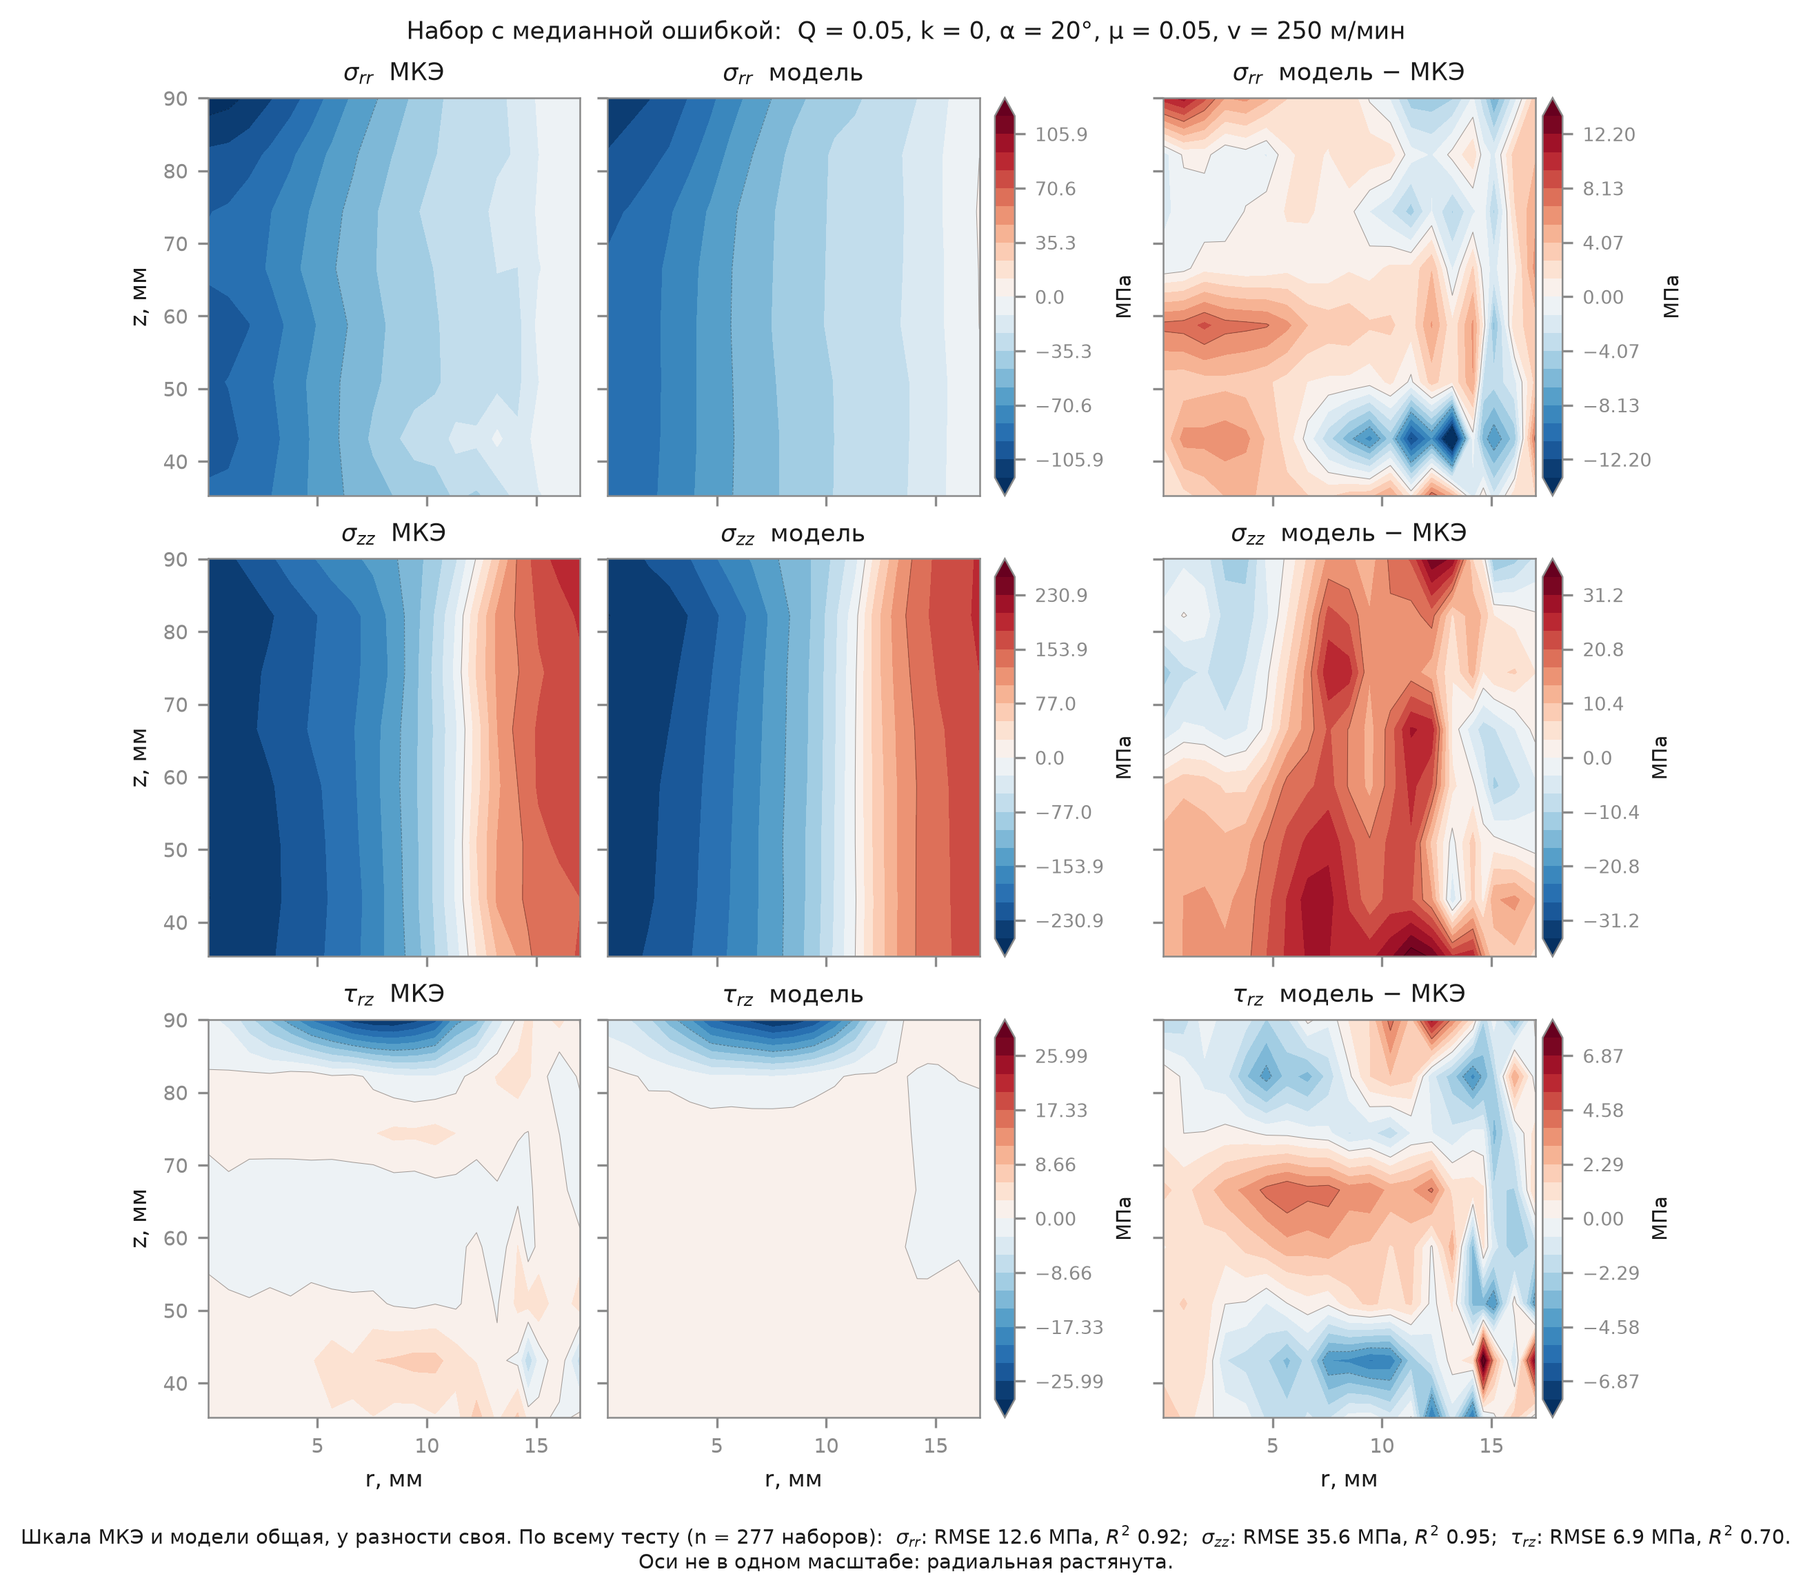
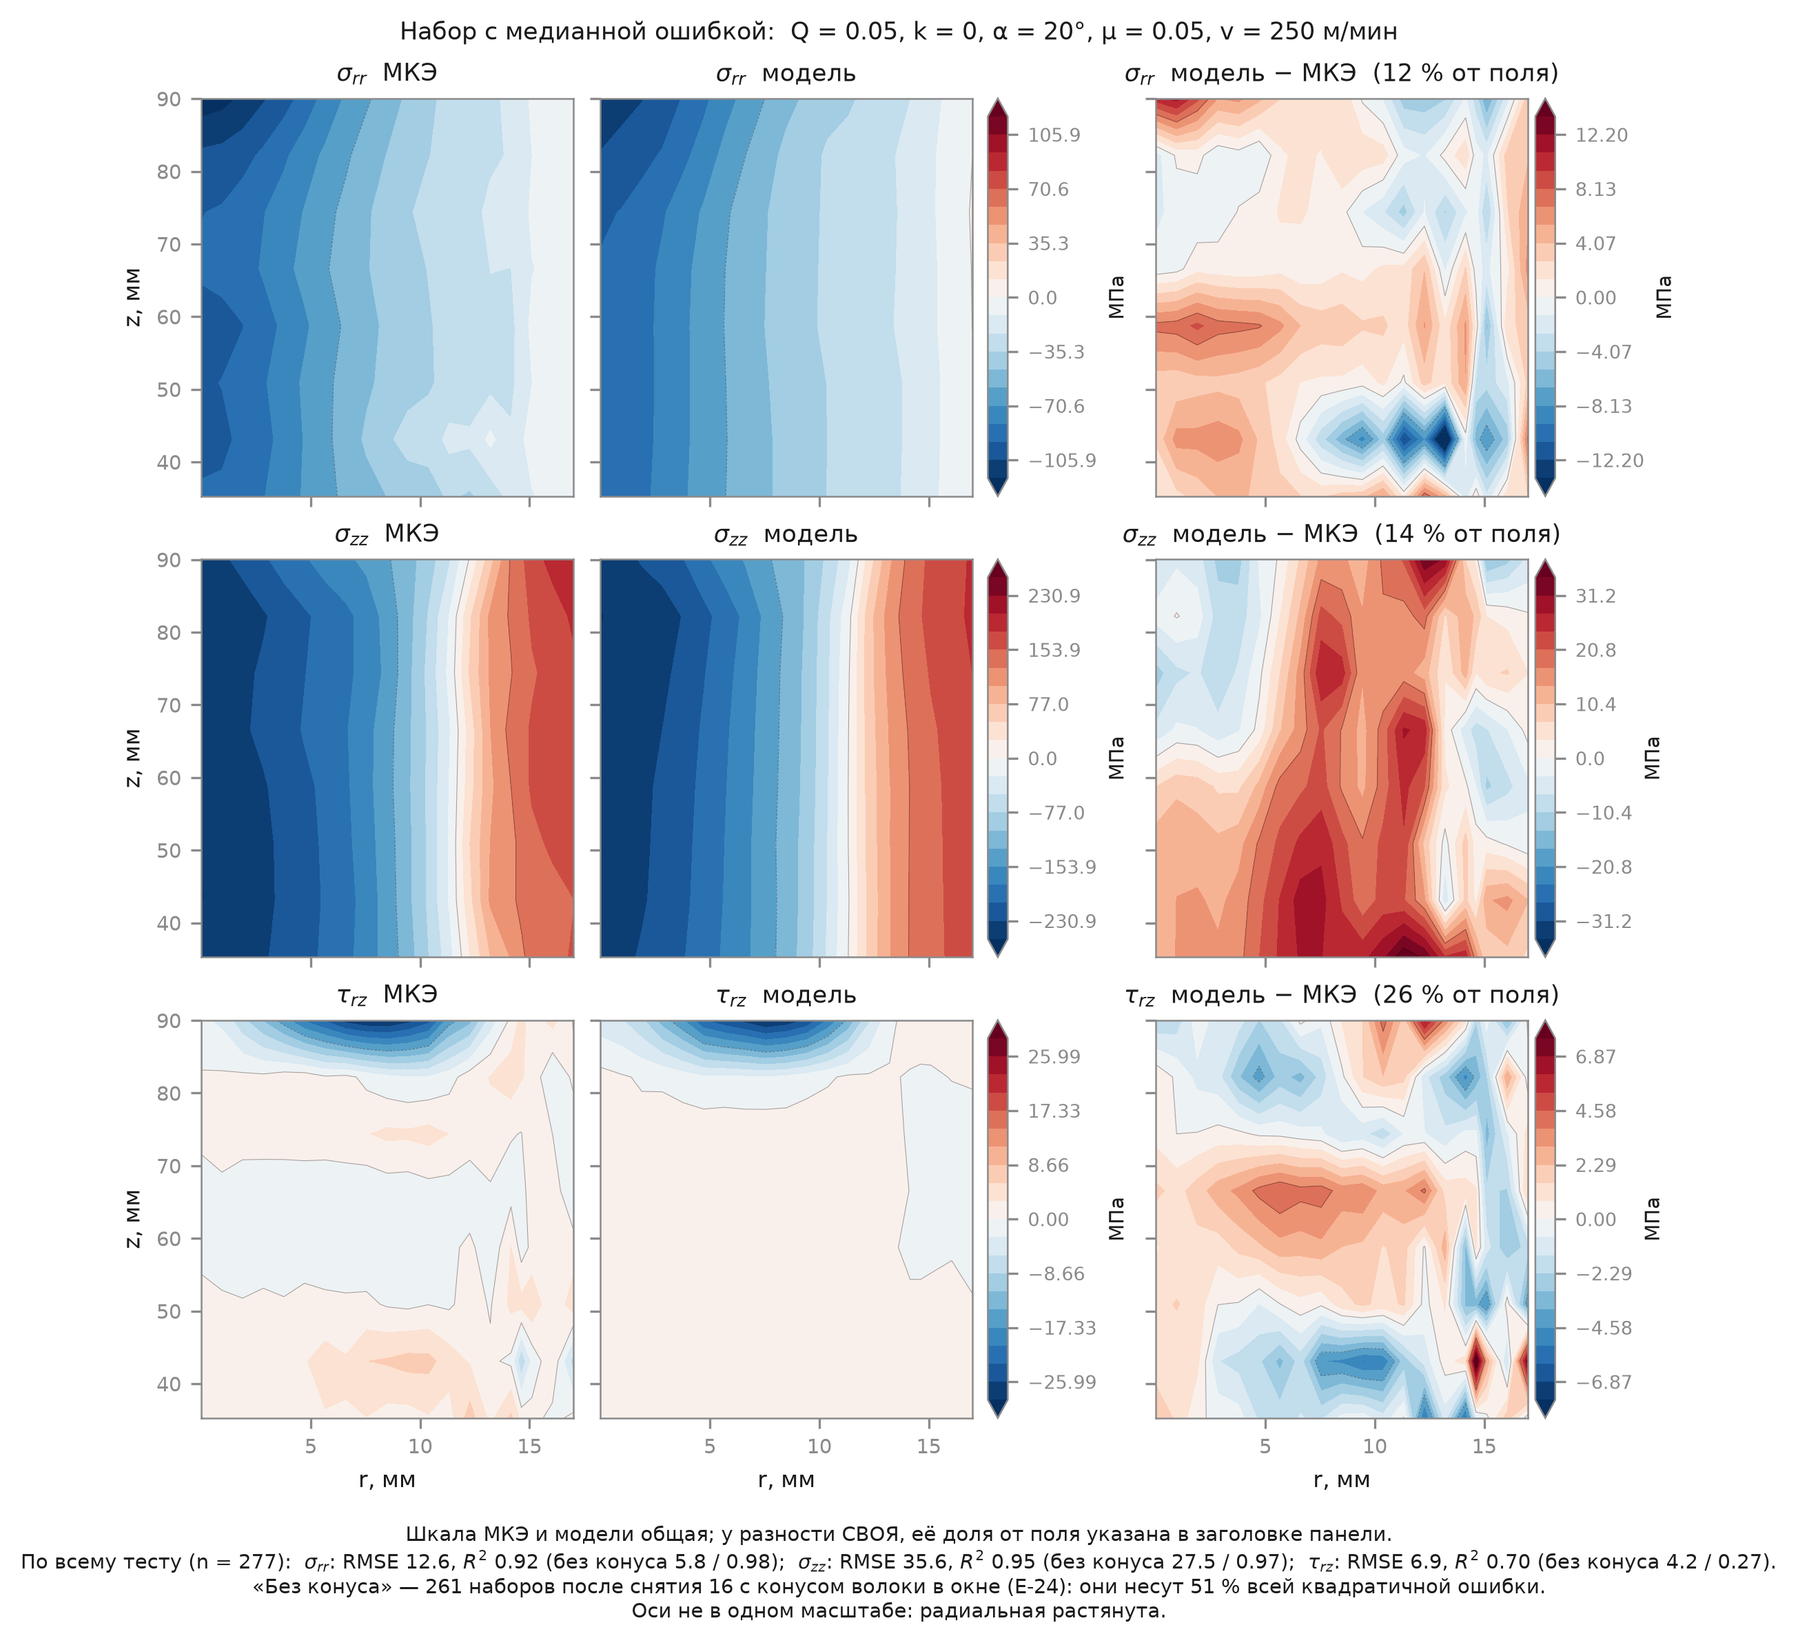
Панель разности вводила в заблуждение; отозвана цифра R2=0.70 по tau_rz
Панель разности масштабировалась по собственному размаху без указания, каков
он относительно поля. Ошибка в 11 % закрашивалась на полную насыщенность и
читалась как провал модели. Фактически для показанного набора:
  sigma_rr  поле ±122.0 МПа, разность ±13.6 МПа -> 11.1 %
  sigma_zz  поле ±256.5 МПа, разность ±34.7 МПа -> 13.5 %
  tau_rz    поле ± 28.8 МПа, разность ± 7.6 МПа -> 26.5 %
Доля вынесена в заголовок каждой панели разности.

Разбор структуры в разности показал, что она сосредоточена в наборах E-24:
16 из 277 тестовых (5.8 %) несут 51.3 % всей квадратичной ошибки, медиана
RMSE 40.6 против 8.6 МПа у остальных. После их снятия:
  sigma_rr  R2 0.924 -> 0.983
  sigma_tt  R2 0.935 -> 0.974
  sigma_zz  R2 0.947 -> 0.967
  tau_rz    R2 0.697 -> 0.269

ОТЗЫВ ЦИФРЫ. Ранее R2 = 0.70 по tau_rz подавался как результат. Он держался
на контактном сдвиге загрязнённых наборов, раздувавшем знаменатель дисперсии.
На чистых данных модель объясняет 27 % дисперсии tau_rz. Корректная
формулировка: введение z во вход делает tau_rz предсказуемым в принципе
(в одномерной постановке он теряет 79 % амплитуды при осреднении), но
качество по нему слабое и как результат подаваться не должно.

Метрики в подписи рисунка теперь печатаются в обоих вариантах.

Changed region(s): [[0.0, 0.0, 0.9935, 0.9952], [0.1552, 0.0, 0.4967, 0.1555], [0.7141, 0.0933, 0.7451, 0.1244]]

diff --git a/publication/experiments/contours.py b/publication/experiments/contours.py
@@ -124,12 +124,19 @@ def fig_model(npz: str, out: str, which: int = -1):
               f"диапазон {err.min():.2f}–{err.max():.2f})")
 
     rows = [(r"$\sigma_{rr}$", 0), (r"$\sigma_{zz}$", 2), (r"$\tau_{rz}$", 3)]
+    clean = d["clean_mask"] if "clean_mask" in d.files else None
     summ = []
     for tex, c in rows:
         t, q = y_true_all[..., c].ravel(), y_pred_all[..., c].ravel()
         r2 = 1.0 - ((q - t) ** 2).sum() / ((t - t.mean()) ** 2).sum()
-        summ.append(f"{tex}: RMSE {np.sqrt(((q - t) ** 2).mean()):.1f} МПа, "
-                    f"$R^2$ {r2:.2f}")
+        part = f"{tex}: RMSE {np.sqrt(((q - t) ** 2).mean()):.1f}, $R^2$ {r2:.2f}"
+        if clean is not None:
+            tc = y_true_all[clean][..., c].ravel()
+            qc = y_pred_all[clean][..., c].ravel()
+            r2c = 1.0 - ((qc - tc) ** 2).sum() / ((tc - tc.mean()) ** 2).sum()
+            part += (f" (без конуса {np.sqrt(((qc - tc) ** 2).mean()):.1f} / "
+                     f"{r2c:.2f})")
+        summ.append(part)
 
     yt, yp = y_true_all[which], y_pred_all[which]
     R = d["r_phys"][which] * 1e3
@@ -143,9 +150,13 @@ def fig_model(npz: str, out: str, which: int = -1):
         lim = _sym(np.concatenate([t.ravel(), q.ravel()]))
         dlim = _sym((q - t).ravel())
         cf_pair = None
+        # панель разности масштабируется по СЕБЕ, иначе структура не видна;
+        # поэтому её долю от поля пишем прямо в заголовок — иначе ошибка в
+        # 11 % закрашивается на полную насыщенность и читается как провал
+        diff_ttl = f"модель − МКЭ  ({100 * dlim / lim:.0f} % от поля)"
         for j, (v, ttl, L) in enumerate(((t, "МКЭ", lim),
                                          (q, "модель", lim),
-                                         (q - t, "модель − МКЭ", dlim))):
+                                         (q - t, diff_ttl, dlim))):
             ax = axes[i, j]
             lev = np.linspace(-L, L, 21)
             cf = ax.contourf(R, Z, v, levels=lev, cmap=DIVERGING, extend="both")
@@ -173,11 +184,15 @@ def fig_model(npz: str, out: str, which: int = -1):
     fig.suptitle(f"Набор с медианной ошибкой:  Q = {proc[0]:g}, k = {proc[1]:g}, "
                  f"α = {proc[2]:g}°, μ = {proc[3]:g}, v = {proc[4]:g} м/мин",
                  fontsize=8.5)
-    fig.text(0.5, -0.015,
-             "Шкала МКЭ и модели общая, у разности своя. По всему тесту "
-             f"(n = {len(y_true_all)} наборов):  " + ";  ".join(summ) + ".\n"
-             "Оси не в одном масштабе: радиальная растянута.",
-             ha="center", va="top", fontsize=7, color=INK)
+    note = ("Шкала МКЭ и модели общая; у разности СВОЯ, её доля от поля "
+            "указана в заголовке панели.\n"
+            f"По всему тесту (n = {len(y_true_all)}):  " + ";  ".join(summ) + ".")
+    if clean is not None:
+        note += (f"\n«Без конуса» — {int(clean.sum())} наборов после снятия "
+                 f"{int((~clean).sum())} с конусом волоки в окне (E-24): они "
+                 "несут 51 % всей квадратичной ошибки.")
+    note += "\nОси не в одном масштабе: радиальная растянута."
+    fig.text(0.5, -0.015, note, ha="center", va="top", fontsize=7, color=INK)
     fig.savefig(out)
     plt.close(fig)
     return out

diff --git a/publication/QA_DATA_AND_Z.md b/publication/QA_DATA_AND_Z.md
@@ -216,24 +216,43 @@ y = np.stack([s_rr(11), s_tt(13), s_zz(12), s_rz(14)])
 форма обоих уравнений), обучена на 1571 наборе, тест 277 наборов, случайный
 сплит. Показан набор с **медианной** ошибкой, а не лучший.
 
-Качество по всему тесту:
+Качество по тесту. Приведено дважды: по всем 277 наборам и по 261 после снятия
+16 наборов с конусом волоки внутри окна (E-24) — эти 16, при доле 5.8 % в тесте,
+несут **51.3 %** всей квадратичной ошибки.
 
-| компонента | RMSE, МПа | ст. отклонение данных, МПа | R² (глобальная нормировка) | sd(предсказ.)/sd(данных) |
+| компонента | RMSE, МПа | R² | RMSE без конуса | R² без конуса |
 |---|---|---|---|---|
-| σ_rr | 12.6 | 45.8 | 0.924 | 0.945 |
-| σ_θθ | 19.0 | 74.3 | 0.935 | 0.959 |
-| σ_zz | 35.6 | 154.8 | 0.947 | 0.971 |
-| τ_rz | 6.9 | 12.5 | **0.697** | 0.930 |
+| σ_rr | 12.6 | 0.924 | **5.8** | **0.983** |
+| σ_θθ | 19.0 | 0.935 | 11.8 | 0.974 |
+| σ_zz | 35.6 | 0.947 | 27.5 | 0.967 |
+| τ_rz | 6.9 | 0.697 | 4.2 | **0.269** |
 
-Читается так: три нормальные компоненты воспроизводятся с R² ≈ 0.92–0.95;
-τ_rz заметно слабее (0.70), но это уже осмысленное предсказание — в одномерной
-постановке та же величина после осреднения вдоль z просто исчезает. Отношение
-разбросов 0.93 показывает, что модель не «сплющивает» сдвиг к нулю, а
-воспроизводит его амплитуду.
+Три нормальные компоненты после снятия загрязнённых наборов воспроизводятся с
+R² = 0.967–0.983 — то есть основная часть видимой ошибки приходилась не на
+модель, а на 16 наборов, где «поверхность» лежит на контакте с волокой.
 
-На самой карте видно, что модель ловит основную особенность τ_rz — отрицательную
-область у выхода окна (z ≈ 85–90 мм, r ≈ 6–10 мм) — и сглаживает мелкую
-структуру. Разность по σ_zz достигает 30 МПа при размахе поля 460 МПа.
+**Поправка к цифре по τ_rz.** Ранее я приводил R² = 0.70 как показатель
+качества по сдвигу. Это число завышено именно теми наборами: контактный сдвиг
+в них велик и раздувает знаменатель дисперсии. На чистых данных модель
+объясняет лишь **27 %** дисперсии τ_rz. Правильная формулировка: введение z во
+вход делает τ_rz предсказуемым в принципе (в одномерной постановке он теряет
+79 % амплитуды при осреднении), но качество по нему остаётся слабым и как
+результат подаваться не должно.
+
+### Как читать панель разности
+
+Шкала панели разности задаётся по её собственному размаху, иначе структура
+ошибки не видна вовсе. Из-за этого ошибка в 11 % закрашивается на полную
+насыщенность и зрительно выглядит как провал. Фактические доли для
+показанного набора:
+
+| компонента | размах поля | размах разности | доля |
+|---|---|---|---|
+| σ_rr | ±122.0 МПа | ±13.6 МПа | 11.1 % |
+| σ_zz | ±256.5 МПа | ±34.7 МПа | 13.5 % |
+| τ_rz | ±28.8 МПа | ±7.6 МПа | 26.5 % |
+
+Доля вынесена в заголовок каждой панели разности.
 
 Шкала во всех случаях расходящаяся симметричная (RdBu_r) с нулём посередине —
 поля знакопеременные, радужная шкала на них вводит в заблуждение. Соотношение

diff --git a/publication/ERRATA.md b/publication/ERRATA.md
@@ -572,6 +572,21 @@ v = 250 → 0/198.
 **Сделано.** `filters.cone_in_window()` помечает такие наборы. Лечится
 сужением окна из тех же `.rpt` — Abaqus не нужен.
 
+**Влияние на метрики оказалось крупным.** В тесте 2D-модели эти наборы дают
+16 из 277 (5.8 %), но несут **51.3 %** всей квадратичной ошибки: медиана RMSE
+40.6 против 8.6 МПа у остальных. После их снятия:
+
+| компонента | R² по всему тесту | R² без конуса |
+|---|---|---|
+| σ_rr | 0.924 | **0.983** |
+| σ_θθ | 0.935 | 0.974 |
+| σ_zz | 0.947 | 0.967 |
+| τ_rz | 0.697 | **0.269** |
+
+По нормальным компонентам качество заметно выше заявленного. По τ_rz — ниже:
+R² = 0.70 держался на контактном сдвиге загрязнённых наборов, который раздувал
+знаменатель дисперсии. Цифра 0.70 отозвана, корректная — 0.27.
+
 ---
 
 ## E-25 🟢 Отрицательные радиусы у оси
